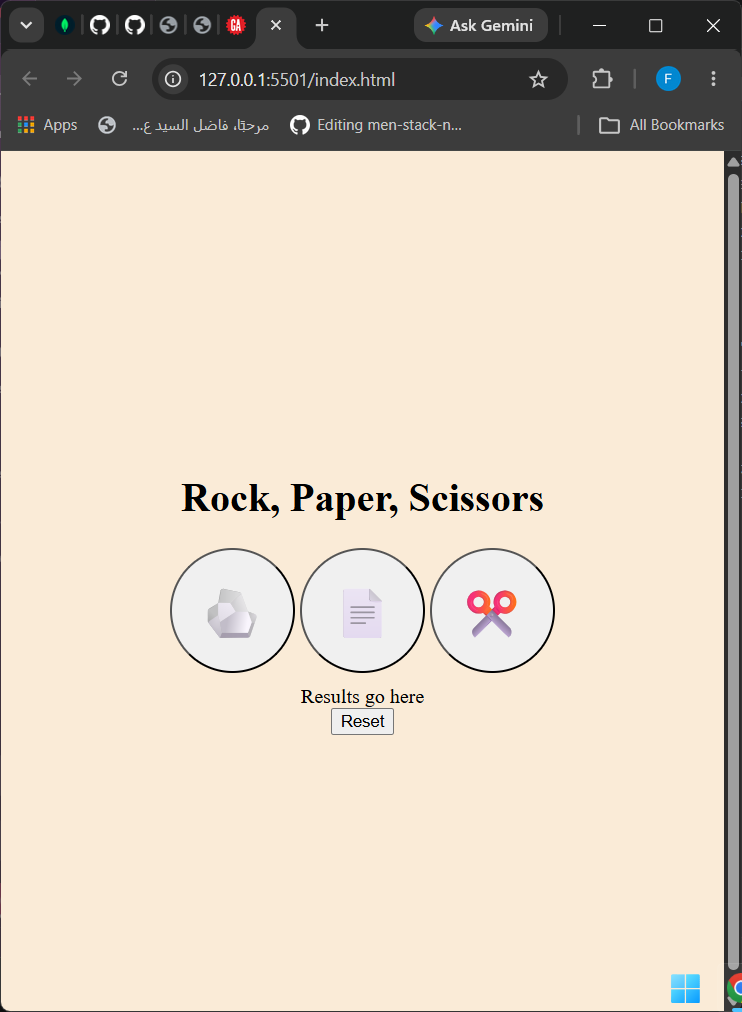
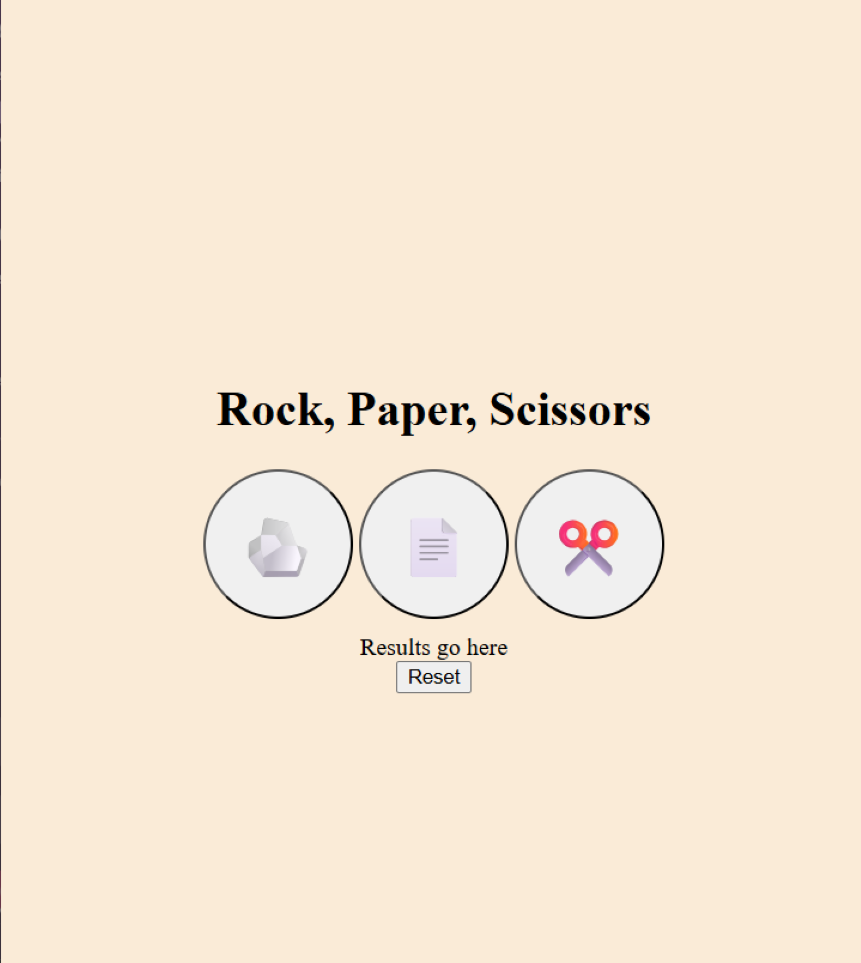
more CSS edit

Changed region(s): [[0.0, 0.0, 1.0, 1.0], [0.217, 0.405, 0.7749, 0.7477]]

diff --git a/public/css/style.css b/public/css/style.css
@@ -1,0 +1,117 @@
+@import url('https://fonts.googleapis.com/css2?family=Big+Shoulders+Inline:opsz,wght@10..72,100..900&family=Carter+One&family=Stack+Sans+Text:wght@200..700&display=swap');
+
+
+body {
+    background-color: rgb(240, 235, 235);
+    display: flex;
+      font-family: "Stack Sans Text", sans-serif;
+      flex-direction: column;
+
+}
+
+h1 {
+    text-align: center;
+}
+
+img{
+    width: 40dvh;
+    border: 0.7dvh solid white;
+    border-radius: 2dvh;
+}
+
+a{
+   text-decoration: none;
+   color: black;
+}
+
+nav a {
+    display: inline-block;
+    color: black;
+    border: 3px solid  black;
+    border-radius: 1.5dvh;
+    padding: 0.6dvh;
+    margin: 1dvh;
+    background-color: #eee;
+    
+}
+
+button {
+
+    font-size: 5dvh;
+    border: 0.5dvh solid;
+    border-radius: 3dvh;
+    margin-top: 0.4dvh;
+    background-color: #eee;
+    padding-right: 7dvh;
+    padding-left: 7dvh;
+}
+
+button:hover {
+    border: rgb(194, 186, 186);
+}
+
+a:hover{
+    
+    border: rgb(194, 186, 186);
+  color: rgb(194, 186, 186);
+}
+
+
+.card{
+    border: 1dvh solid;
+    border-radius: 1.5dvh;
+    padding: 1dvh;
+    margin: 1dvh;
+    /* margin-top: 1.8dvh; */
+    display: flex;
+    flex-direction: column;
+    align-items: center;
+    
+}
+
+#project-card{
+    display: flex;
+    flex-direction:column;
+    /* flex-wrap: wrap; */
+    gap: 3dvh;
+    background-color: whitesmoke;
+}
+
+#skill-card{
+    display: flex;
+    flex-direction: row;
+    justify-content: space-between;
+    align-items: center;
+}
+
+.SKcard{
+    border: 1dvh solid;
+    border-radius: 1.5dvh;
+    /* padding: 1dvh; */
+    margin: 1dvh;
+    display: flex;
+    flex-direction: column;
+    align-items: center;
+    justify-content: space-between;
+    width: 70%;
+}
+
+#skillName{
+   border: 1dvh solid;
+   border-radius: 1.5dvh;
+   width: 25%;
+   padding-top: 5dvh;
+   padding-bottom: 5dvh;
+ /* display: flex;
+ flex-direction: column;
+    align-items: center;  
+     */
+}
+
+.detail{
+    display: flex;
+    flex-direction: column;
+    justify-content: center;
+    align-items: center;
+    
+}